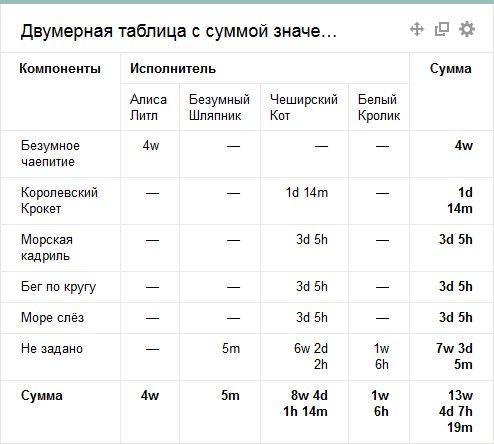
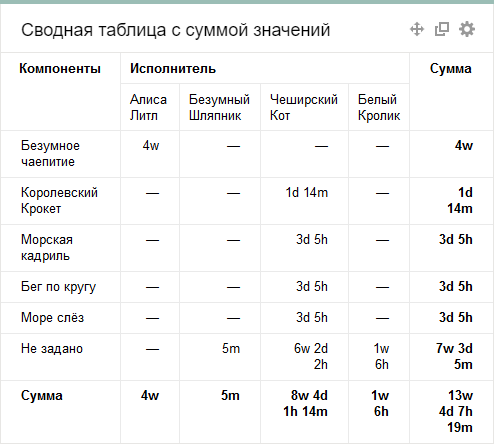
Merge pull request #4320 in CLOUD/docs from DOCSUP-8846.Tracker-Dashboard-tables to develop
Squashed commit of the following:

commit fbfc536cab3a2659ee8f289b50cc616961e85b97
Author: v-petrakova <v-petrakova@yandex-team.ru>
Date:   Wed May 12 20:32:42 2021 +0300

    актуализированы названия полей

commit c1c56a58307a86e878e39772f5ba8fea482c6542
Author: v-petrakova <v-petrakova@yandex-team.ru>
Date:   Wed May 5 19:37:47 2021 +0300

    переименование из двумерной  в сводную

Changed region(s): [[0.0304, 0.0586, 0.668, 0.0878]]

diff --git a/ru/tracker/user/widgets.md b/ru/tracker/user/widgets.md
@@ -21,23 +21,23 @@
 
 Сводные таблицы автоматически собирают статистику по задачам и предоставляют ее в табличном виде. {{ tracker-name }} поддерживает несколько типов сводных таблиц:
 
-#### Двумерная таблица
+#### Простая сводная таблица
 
 ![](../../_assets/tracker/widgets/table.png)
 
-Простая сводная таблица, которая позволяет просматривать статистику задач по двум любым параметрам. На пересечениях таблицы приводится количество задач, удовлетворяющих параметрам. С помощью двумерной таблицы вы можете, например, отслеживать количество и статусы задач определенной группы исполнителей.
+Простая сводная таблица, которая позволяет просматривать статистику задач по двум любым параметрам. На пересечениях таблицы приводится количество задач, удовлетворяющих параметрам. С помощью такой таблицы вы можете, например, отслеживать количество и статусы задач определенной группы исполнителей.
 
 Чтобы настроить виджет, задайте его параметры:
 
-- **Название** — название, которое отображается в заголовке виджета.
+- **Название виджета** — название, которое отображается в заголовке виджета.
 
 - **Фильтр**. Статистика собирается по задачам, удовлетворяющим определенному фильтру. Вы можете задать фильтр с помощью [прямой ссылки](filters.md), [имени](create-filter.md) или [языка запросов](query-filter.md).
 
-- **Ось x** — параметр, по которому строятся столбцы таблицы.
+- **Столбцы** — параметр, по которому строятся столбцы таблицы.
 
-- **Ось y** — параметр, по которому строятся строки таблицы.
+- **Строки** — параметр, по которому строятся строки таблицы.
 
-- **Число строк таблицы** — максимальное количество строк таблицы, которые отображаются в виджете. Если строк окажется больше, вы сможете воспользоваться кнопкой **Показать все** в нижней части виджета.
+- **Количество строк на странице** — максимальное количество строк таблицы, которые отображаются в виджете. Если строк окажется больше, вы сможете воспользоваться кнопкой **Показать все** в нижней части виджета.
 
 - **Сортировка** — порядок сортировки строк таблицы.
 
@@ -45,29 +45,29 @@
 
 - **Автообновление** — периодичность, с которой обновляются данные в виджете.
 
-#### Двумерная таблица с суммой значений
+#### Сводная таблица с суммой значений
 
 ![](../../_assets/tracker/widgets/table-with-sum.png)
 
-Особый вид сводной таблицы по двум параметрам. В отличие от простой двумерной таблицы, на пересечениях приводится не число задач, а сумма значений третьего параметра. С помощью такой таблицы вы можете, например, отслеживать время, которое исполнители затратили на работу над различными компонентами очереди.
+Особый вид сводной таблицы по двум параметрам. В отличие от простой сводной таблицы, на пересечениях приводится не число задач, а сумма значений третьего параметра. С помощью такой таблицы вы можете, например, отслеживать время, которое исполнители затратили на работу над различными компонентами очереди.
 
 Чтобы настроить виджет, задайте его параметры:
 
-- **Название** — название, которое отображается в заголовке виджета.
+- **Название виджета** — название, которое отображается в заголовке виджета.
 
 - **Фильтр**. Статистика собирается по задачам, удовлетворяющим определенному фильтру. Вы можете задать фильтр с помощью [прямой ссылки](filters.md), [имени](create-filter.md) или [языка запросов](query-filter.md).
 
-- **Ось x** — параметр, по которому строятся столбцы таблицы.
+- **Столбцы** — параметр, по которому строятся столбцы таблицы.
 
-- **Ось y** — параметр, по которому строятся строки таблицы.
+- **Строки** — параметр, по которому строятся строки таблицы.
 
-- **Сумма по** — параметр, сумма значений которого приводится на пересечениях.
+- **Ячейки** — параметр, сумма значений которого приводится на пересечениях.
 
-- **Число строк таблицы** — максимальное количество строк таблицы, которые отображаются в виджете. Если строк окажется больше, вы сможете воспользоваться кнопкой **Показать все** в нижней части виджета.
+- **Количество строк на странице** — максимальное количество строк таблицы, которые отображаются в виджете. Если строк окажется больше, вы сможете воспользоваться кнопкой **Показать все** в нижней части виджета.
 
-- **Сортировка в строке** — порядок сортировки строк таблицы.
+- **Сортировка в строках** — порядок сортировки строк таблицы.
 
-- **Сортировка в колонке** — порядок сортировки столбцов таблицы.
+- **Сортировка в столбцах** — порядок сортировки столбцов таблицы.
 
 - **Показывать сумму** — если опция включена, таблица содержит сумму значений по строкам и столбцам.
 
